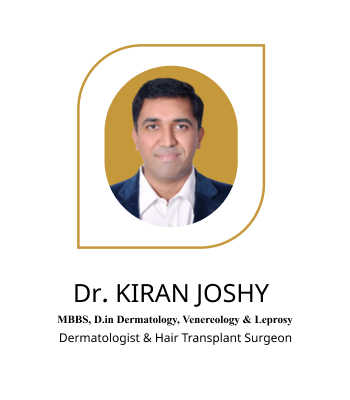
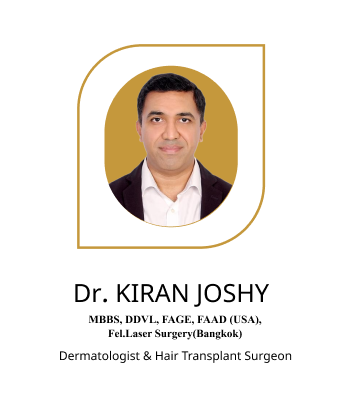
doc image changed

Changed region(s): [[0.3143, 0.18, 0.6857, 0.57], [0.1429, 0.78, 0.8286, 0.93]]

diff --git a/doctor-kiranjoshy.html b/doctor-kiranjoshy.html
@@ -326,7 +326,8 @@
                         <div class="our-doctor-image-container">
                             <img class="doc-img" src="assets/img/doctor/doc1.jpg" alt="Dr. Kiran Joshy" />
                             <h5 class="doctor1">Dr. KIRAN JOSHY </h5>
-                            <h6 class="doc-spec1">MBBS, D.in Dermatology, venereology & Leprosy
+                            <h6 class="doc-spec1">MBBS, DDVL, FAGE, FAAD(USA),
+                                Fel.Laser Surgery(Bangkok)
 
                             </h6>
                             <h7 class="doc-spec">Dermatologist and Hair Transplant Surgeon

diff --git a/index.html b/index.html
@@ -302,7 +302,7 @@
 				<div class="about-text-content">
 
 					<a>About us</a>
-					<h1 class="about-title">Exceptional Care in the Heart of the Maldives</h1>
+					<h1 class="about-title">Exceptional Care in the Heart of Maldives</h1>
 					<p class="about-para">Our reputation for outstanding care and family-like atmosphere, together with
 						advanced dental and medical care ensures we attract leading consultants and specialists from the
 						industry to work with us. All our clinicians are board-certified and come with very high

diff --git a/assets/css/about.css b/assets/css/about.css
@@ -583,6 +583,7 @@ body{
     .image-container {
         flex: 1 0 50%;
         padding: 0 5%;
+       
     
         
       }
@@ -593,6 +594,8 @@ body{
         width: 100%;
         border-radius: 100px;
         height: 80%;
+       
+    
         
         
         
